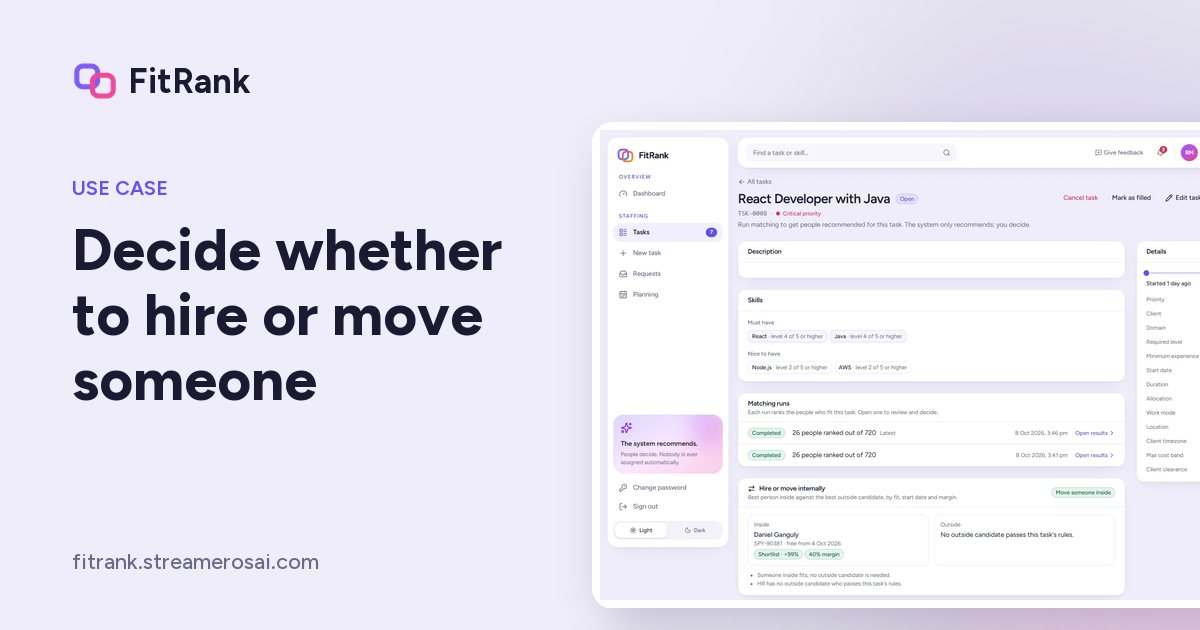
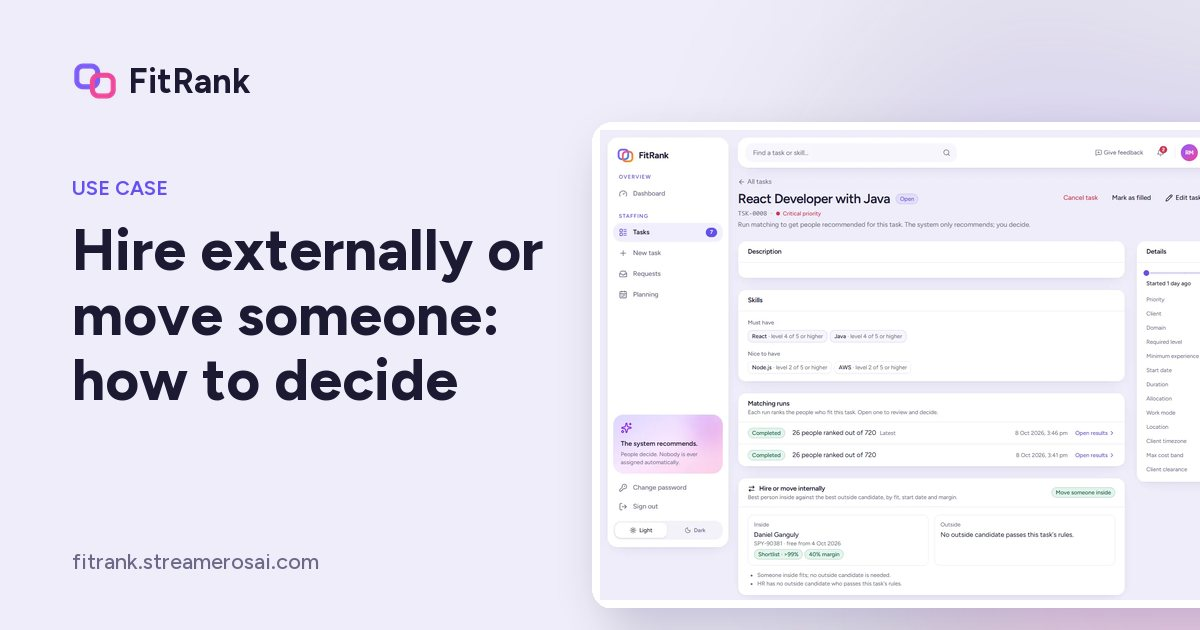
feat(use-cases): deep articles for hire-or-move, hr-candidate-pipeline and multi-task-staffing

Changed region(s): [[0.0617, 0.3619, 0.4625, 0.5429], [0.0617, 0.573, 0.4008, 0.6333]]

diff --git a/src/lib/usecase-articles-b.ts b/src/lib/usecase-articles-b.ts
@@ -1,0 +1,174 @@
+import type { Block } from "@/lib/blog";
+
+export const ARTICLES_B: Record<string, Block[]> = {
+  "hire-or-move": [
+    { type: "tldr", text: "To decide between hiring from outside and moving someone inside, compare the best person you already have with the best outside candidate on the same terms: fit to the task, the date each could start, and the margin on the work. FitRank builds that side-by-side card for every open task and gives a plain recommendation with reasons; the manager decides." },
+    { type: "h2", text: "The decision nobody puts on one page" },
+    { type: "p", text: "A delivery leader meets this choice constantly. A task needs someone in a few weeks. HR has two resumes. A person in another team might do it, but moving them means a conversation with their manager and a gap behind them. Which is the better call?" },
+    { type: "p", text: "Most teams answer from habit. Some always hire, because moving people is awkward. Others never hire, because the budget is tight. Both habits cost money: roles filled from outside that an internal person could have covered, and internal moves that drag on while the start date passes. The root cause is that the two options are never laid side by side on the same terms." },
+    { type: "h2", text: "An illustrative example: a Python lead for a retail client" },
+    { type: "p", text: "The people and figures here are invented to show the comparison. They are not real." },
+    { type: "p", text: "A task needs a Python lead from 1 December. Inside, the best match is a developer who covers every must-have and has retail projects behind her, but she rolls off her current project on 15 December, two weeks after the start. Outside, HR has a candidate who also covers the must-haves, has less retail experience, and has a notice period that lets her join on 10 December." },
+    { type: "p", text: "On fit, the two are close. On timing, neither makes 1 December; the internal option is two weeks late and the outside option nine days late. On margin, the outside candidate costs more per week on the rate card. A manager looking at that card might decide to ask the client for a two-week later start and move the internal person. Another might decide the outside hire is worth it because the internal person is needed on her current project. The point is that both managers decide from the same page, and the reasons are written down." },
+    { type: "h2", text: "How to compare the two options by hand" },
+    { type: "ol", items: [
+      "Run the same test on both. If you hold the candidate to a stricter standard than your own people, or the reverse, the comparison is rigged before it starts.",
+      "Put dates in the same unit. For an employee the date is when they are free; for a candidate it is when their notice period ends. Write the earliest start next to each.",
+      "Compare cost on one basis. Use your rate card for both, and look at margin per week on the work, not only the pay.",
+      "List what each option blocks. An internal move leaves a gap in the team they leave; a hire adds onboarding time.",
+      "Check the evidence of skills. A skill confirmed by a resume or recent project counts more than a skill someone says they have.",
+      "Decide and record the reason. 'Moved internally because start date was within a week' is a reason you can learn from.",
+    ] },
+    { type: "h2", text: "How FitRank handles it" },
+    { type: "ul", items: [
+      "It takes the best recommended person from the task's latest matching run. That person has already passed every rule and been scored on the five questions. See [explained matching and shortlists](/features/explainable-matching/).",
+      "It takes the best outside candidate who passes the same rules. Candidates are not held to different standards, and a candidate's availability is their notice period, checked against the task's start date. See [two-way candidate matching](/features/candidate-matching/).",
+      "It compares the two on fit, start date and margin, shows the reasons and blockers on each side, and suggests moving someone inside or hiring from outside.",
+      "The card sits on every open task, so the comparison is there when the manager opens the task, not in a separate analysis. See [hire or move](/features/hire-or-move/).",
+      "The manager decides, and the decision is recorded.",
+    ] },
+    { type: "p", text: "If nobody inside fits at all, the card still helps, because it shows that the outside route is the real option, and the manager can send HR a request from the same task. The [hiring request hand-off](/use-cases/hr-candidate-pipeline/) covers what happens next." },
+    { type: "h2", text: "A checklist for the decision" },
+    { type: "ul", items: [
+      "Both options passed the same availability, location and cost rules.",
+      "The earliest start date is written beside each, with the reason it is not sooner.",
+      "Margin per week is worked out from the same rate card for both.",
+      "The gap an internal move leaves behind is named, with an owner.",
+      "At least one skill on each side is backed by evidence, not only a claim.",
+      "The reason for the decision is recorded.",
+    ] },
+    { type: "h2", text: "Common mistakes" },
+    { type: "ul", items: [
+      "Treating the internal person as free. A person whose project ends after the start date is not available on that date, however good the fit.",
+      "Judging candidates on their resume and employees on reputation. Reputation is a weaker kind of evidence than a recent project.",
+      "Ignoring notice periods. A strong candidate who cannot start for three months may lose to a good internal person who can start now. A [notice period calculator](/tools/notice-period-calculator/) gives the last working day from a resignation date.",
+      "Comparing price instead of margin. The cheaper option is not better if it takes longer to be productive.",
+      "Deciding in a corridor. If the reason is not written, the next similar choice starts from zero.",
+    ] },
+    { type: "h2", text: "When FitRank is not the right tool" },
+    { type: "p", text: "The card compares fit, start date and margin. It does not know about career plans, a team's morale or a promise made to a client, so those stay with the manager. It depends on a candidate pipeline being in the system: if HR does not record outside candidates in FitRank, there is nothing to compare. And it does not decide: FitRank has no automatic hiring or moving, by design. Where a choice is occasional and the options are obvious, a conversation does the job." },
+    { type: "h2", text: "Questions people ask" },
+    { type: "faq", items: [
+      { q: "Are outside candidates judged by different rules?", a: "No. They are ranked with the same rules and facts as employees. A candidate's availability is their notice period." },
+      { q: "Does FitRank decide whether to hire?", a: "No. It shows both options with reasons and suggests one. The manager decides, and the decision is recorded." },
+      { q: "What if there is no outside candidate yet?", a: "The task shows only the internal option, and the manager can ask HR for candidates directly from the task." },
+      { q: "What does margin mean here?", a: "It comes from your rate card: what the work bills against what the person costs by cost band. Salaries are never stored." },
+      { q: "Can I see why the internal person was suggested?", a: "Yes. The same five answers, facts and rule checks as any match are open on the person, so the reason can be checked in seconds." },
+    ] },
+  ],
+
+  "hr-candidate-pipeline": [
+    { type: "tldr", text: "When nobody inside fits a task, the clean way to hire is a written request from the manager to HR that carries the task's skills, level and dates, followed by resumes read with personal details removed, candidates scored against the task, and a recorded fit or not-fit from the manager. FitRank tracks that whole loop in one place." },
+    { type: "h2", text: "Why the hand-off breaks" },
+    { type: "p", text: "A resource manager runs out of internal options and sends HR an email: we need a data engineer, can you find someone? The email says little about level, start date or client domain, because those live in the task, not in the email. HR replies with questions, then screens resumes by hand against one role at a time, and the manager hears back days later with a list nobody can compare against the task." },
+    { type: "p", text: "Three things go wrong. Detail is lost between the task and the request. Nobody can see where a request stands. And resumes, which are full of personal information, are handled casually: photos, dates of birth and addresses travel by email and sit in inboxes." },
+    { type: "h2", text: "An illustrative example: one request, three candidates" },
+    { type: "p", text: "The task, the candidates and the dates below are invented." },
+    { type: "p", text: "A manager has a task for a senior QA engineer starting 12 January. No one inside covers the test automation must-have. He asks HR for up to three candidates directly from the task. HR sees the request with the skills, level, dates and the manager's note, so there are no clarifying emails. HR uploads three resumes. Each is stripped of name, contacts and photo before a model reads it, and the extracted fields are checked by an HR person before they are saved." },
+    { type: "p", text: "Two candidates cover the must-haves. One has a notice period that ends on 20 January, so the blocker reads as a date clash of eight days, in plain words. The manager marks the first as a fit and the second as a fit with a later start, and the third as not a fit because of the domain. The request closes with a record of all three decisions." },
+    { type: "h2", text: "A hand-off you can run without software" },
+    { type: "ol", items: [
+      "Send requests as structured information, not a sentence: skills, level, start date, location, how many candidates and a note on what matters most.",
+      "Give HR one place to see every open request and where each stands.",
+      "Remove personal details from a resume before anyone, or any tool, evaluates it. Judge the professional part: experience, skills, domains.",
+      "Record what the resume does not state, such as notice period, as unconfirmed rather than guessing it.",
+      "Score every candidate against the task on the same rules as employees, and write blockers as dates a person can check.",
+      "Close the loop: the manager records fit or not-fit for each candidate.",
+      "Set a retention rule for candidate files and keep to it.",
+    ] },
+    { type: "h2", text: "How FitRank handles it" },
+    { type: "ul", items: [
+      "Request. From a task with no internal fit, the manager asks HR for one to ten candidates. See [HR home and hiring requests](/features/hiring-requests/).",
+      "One page for HR. HR home lists open requests, tasks nobody inside can take, the candidate pipeline and files due for deletion.",
+      "Reading. HR uploads a PDF or Word resume and records where it came from. Code removes names, emails, phone numbers, addresses, links, dates of birth and photos first. The AI then fills professional fields only, and anything not stated is marked unconfirmed. HR checks every field before saving. See [privacy-first resume reading](/features/resume-reading/).",
+      "Scoring. Candidates are scored with the same rules and facts as employees, and blockers read like a date clash in words. A task shows its candidates ranked, and a candidate shows every open task they fit. HR can also put a candidate forward to a manager without waiting to be asked. See [two-way candidate matching](/features/candidate-matching/).",
+      "Contact details. These stay with HR. The manager sees the profile and the fit, and HR contacts the people they choose.",
+      "Consent and retention. Candidate consent is recorded, and files are deleted after a year unless the person is hired.",
+    ] },
+    { type: "p", text: "Why the stripping step matters is covered in [removing personal data before AI](/features/resume-reading/); in short, the model never receives the part of a resume that identifies a person, so it cannot use it." },
+    { type: "h2", text: "A checklist for the HR side" },
+    { type: "ul", items: [
+      "Every request has skills, level, dates and a named manager.",
+      "Every resume source is recorded.",
+      "Personal details are removed before any evaluation, human or automated.",
+      "Unstated fields are marked unconfirmed.",
+      "Notice period is turned into an earliest start date, and compared with the task date. The [notice period calculator](/tools/notice-period-calculator/) helps with the date arithmetic.",
+      "Consent is recorded and a deletion date exists.",
+      "The manager's verdict on each candidate is captured, with a reason.",
+    ] },
+    { type: "h2", text: "Common mistakes" },
+    { type: "ul", items: [
+      "Screening against the job title instead of the task's skills.",
+      "Accepting whatever a parser returns as fact. A guessed notice period is worse than a blank one.",
+      "Letting managers see contact details, which invites side conversations and breaks the process.",
+      "Keeping candidate files forever. Without a retention rule, a resume database becomes a liability.",
+      "Never looking at candidates against other open tasks. The person who misses one task may fit another.",
+    ] },
+    { type: "h2", text: "When FitRank is not the right tool" },
+    { type: "p", text: "FitRank is not a full applicant tracking system: it does not post jobs, run career pages, schedule interviews or send offers. Bulk resume upload is on the roadmap but not built, so resumes go in one at a time. It reads PDF and Word files. And it supports hiring for tasks that already exist in the system; if you hire for general headcount with no task attached, a conventional ATS fits better." },
+    { type: "h2", text: "Questions people ask" },
+    { type: "faq", items: [
+      { q: "Is the resume sent to an AI service with the candidate's name?", a: "No. Names, contact details, links, dates of birth and photos are removed by code first. The AI only sees the professional part." },
+      { q: "What if the resume does not state a notice period?", a: "The field is marked unconfirmed for HR to fill in. FitRank never fills it with a guess." },
+      { q: "How many candidates can a manager ask for?", a: "Between one and ten per request." },
+      { q: "Do managers see candidates' contact details?", a: "No. Contact details are for HR only." },
+      { q: "How long are candidate files kept?", a: "One year after upload, then they are deleted automatically, unless the candidate is hired." },
+    ] },
+  ],
+
+  "multi-task-staffing": [
+    { type: "tldr", text: "To staff several tasks at once, take the best candidates for every task together and assign each person to at most one of them within the time they actually have free, instead of letting each task pick its favourite in turn. FitRank proposes a plan for up to 30 tasks that never books anyone twice and shows the margin of each proposal; managers still decide task by task." },
+    { type: "h2", text: "The problem: the loudest task takes the best person" },
+    { type: "p", text: "When tasks are staffed one at a time, the order decides the outcome. The task that was raised first picks the strongest person, and the next task gets the strongest of whoever is left. That is not necessarily the best way to staff the portfolio. The second task might have needed that person far more than the first, who would have been just as happy with a close second choice." },
+    { type: "p", text: "Resource management offices see this at the start of a quarter, when several tasks start together, and in a rush before a client review, when everyone asks for the same three people. The plan that looks best task by task is often not the best for the project." },
+    { type: "h2", text: "An illustrative example: three tasks, two good people" },
+    { type: "p", text: "These tasks and people are invented to show the effect." },
+    { type: "p", text: "Three tasks start in the same month: a cloud migration, a reporting rebuild and a test automation task. Two people, Asha and Ravi, are strong on the cloud task. Asha is also the only person who fits the reporting rebuild well. Ravi is a decent fit for test automation. One at a time, the cloud task goes first and picks Asha, because she scores highest. The reporting task is left without a strong candidate, and Ravi, now free, ends up on test automation, where he is only a decent fit." },
+    { type: "p", text: "Looked at together, the better plan is Ravi on the cloud task, Asha on the reporting rebuild, and a person who fits test automation well on that task. The cloud task has a slightly weaker lead and the other two are well covered. That kind of trade-off is invisible when the tasks are decided in isolation." },
+    { type: "h2", text: "A way to plan a portfolio without software" },
+    { type: "ol", items: [
+      "List every task that starts in the window, with its must-have skills and dates.",
+      "For each task, write down the three best people from a proper match, not the first three you thought of.",
+      "Look for people who appear on more than one task. These are the contested people.",
+      "For each contested person, ask where their absence hurts least and where it hurts most.",
+      "Assign contested people first, then fill the rest with their next best.",
+      "Never book anyone beyond the time they have free. A person at 150 per cent is a plan that fails in week two.",
+      "Compare the plan with the one-by-one version. If they are the same, you lose nothing; if they differ, you have found the problem.",
+    ] },
+    { type: "h2", text: "How FitRank handles it" },
+    { type: "ul", items: [
+      "Choose the tasks of one project, up to 30, each with a finished matching run. If a task has no run yet, FitRank says so and offers to run matching, so the plan is always built from scored results.",
+      "FitRank proposes one person per task. It never proposes the same person twice, and never beyond the time they have free.",
+      "Each proposal shows the person's band and fit, the alternatives, and the margin of that choice. The plan as a whole shows tasks filled and gross margin per week. See [staff several tasks at once](/features/project-staffing/).",
+      "It is a proposal. The manager of each task still decides on the matching results, and nothing is assigned automatically.",
+    ] },
+    { type: "p", text: "The matching results come from the same rules, facts and five judgements as a single-task match, so the plan inherits their reasons. See [how a recommendation is made](/how-it-works/) for that pipeline." },
+    { type: "h2", text: "A checklist for a multi-task plan" },
+    { type: "ul", items: [
+      "Every task in the plan has a recent match, so the plan is built from the same data.",
+      "Nobody appears twice, and nobody is booked past their free time.",
+      "Contested people are identified and discussed before tasks are confirmed.",
+      "Each task has an alternative if its first choice declines.",
+      "Margin is compared across plans, not just for one task.",
+      "The plan is reviewed again when a start date changes, because it changes who is free.",
+    ] },
+    { type: "h2", text: "Common mistakes" },
+    { type: "ul", items: [
+      "Staffing in the order tasks were raised, which rewards the loudest rather than the most important.",
+      "Booking someone at full time on two tasks because both start in the same week.",
+      "Optimising only margin. A cheap plan filled with people at Review is a risky plan.",
+      "Planning from stale matches. If the task changed after the run, the proposal reflects the old version.",
+      "Forgetting the bench. The people free in the next month are often the best fix for a contested task. See [cutting bench time](/use-cases/bench-management/).",
+    ] },
+    { type: "h2", text: "When FitRank is not the right tool" },
+    { type: "p", text: "The plan handles up to 30 tasks and works from finished matching runs, so it is for a project or a portfolio of real tasks, not for hundreds of roles at once. It proposes people; it does not negotiate between managers, move people between projects, or know about informal commitments. If you have two tasks and one obvious person each, you do not need a plan. If your problem is shift cover over a week, a rota tool such as the [schedule generator](/tools/schedule-generator/) is closer to what you need." },
+    { type: "h2", text: "Questions people ask" },
+    { type: "faq", items: [
+      { q: "Does the plan assign the people?", a: "No. It is a proposal. Each task is still decided by its manager on the matching results." },
+      { q: "What if a task has no matching run yet?", a: "FitRank says so and offers to run matching for it, so the plan is always built from scored results." },
+      { q: "How many tasks can I plan at once?", a: "Up to 30 tasks that each have a finished matching run." },
+      { q: "Can the same person be proposed twice?", a: "No. One person per task, never beyond the time they have free." },
+      { q: "What does the plan show about money?", a: "Each proposal shows its margin, and the plan shows tasks filled and gross margin per week, worked out from your rate card." },
+    ] },
+  ],
+};

diff --git a/src/lib/content.ts b/src/lib/content.ts
@@ -149,9 +149,9 @@ export const USE_CASES: UseCase[] = [
   },
   {
     slug: "hire-or-move",
-    title: "Decide whether to hire or move someone",
+    title: "Hire externally or move someone: how to decide",
     who: "Delivery and talent leaders",
-    description: "Compare the best internal person with the best outside candidate for each task, with reasons on both sides.",
+    description: "Compare the best internal person with the best outside candidate on fit, start date and margin. A method, a worked example and where it stops.",
     problem: "Teams hire for roles they could have filled internally, or wait on an internal move that never comes.",
     how: [
       "For each task, FitRank finds the best internal person and the best candidate HR has in the pipeline.",
@@ -164,9 +164,9 @@ export const USE_CASES: UseCase[] = [
   },
   {
     slug: "hr-candidate-pipeline",
-    title: "Bring in outside candidates when nobody inside fits",
+    title: "Hiring request to HR when no one inside fits",
     who: "HR and talent acquisition teams",
-    description: "Turn 'no internal fit' into a hiring request, read resumes with personal details removed, and match candidates to every open task.",
+    description: "A clean hand-off from manager to HR: structured request, resumes read with personal details removed, candidates scored, fit recorded.",
     problem: "When the bench can't cover a task, the request reaches HR as an email with half the details, and candidates are screened by hand.",
     how: [
       "The manager sends a hiring request straight from a task with no internal fit.",
@@ -179,9 +179,9 @@ export const USE_CASES: UseCase[] = [
   },
   {
     slug: "multi-task-staffing",
-    title: "Staff a whole portfolio of tasks at once",
+    title: "Staffing several tasks at once without double-booking",
     who: "Resource management offices",
-    description: "Propose one person per task across every open task without double-booking anyone, and see the margin of each plan.",
+    description: "Staffing tasks one at a time gives the best person to the loudest task. Plan the portfolio together, without booking anyone twice.",
     problem: "Staffing tasks one at a time gives the best person to whichever task asked first.",
     how: [
       "FitRank takes the latest match runs for all open tasks.",

diff --git a/src/lib/usecase-articles.ts b/src/lib/usecase-articles.ts
@@ -3,7 +3,9 @@
 // labelled illustrative and use made-up people and numbers.
 import type { Block } from "@/lib/blog";
 import { ARTICLES_A } from "@/lib/usecase-articles-a";
+import { ARTICLES_B } from "@/lib/usecase-articles-b";
 
 export const UC_ARTICLES: Record<string, Block[]> = {
   ...ARTICLES_A,
+  ...ARTICLES_B,
 };
